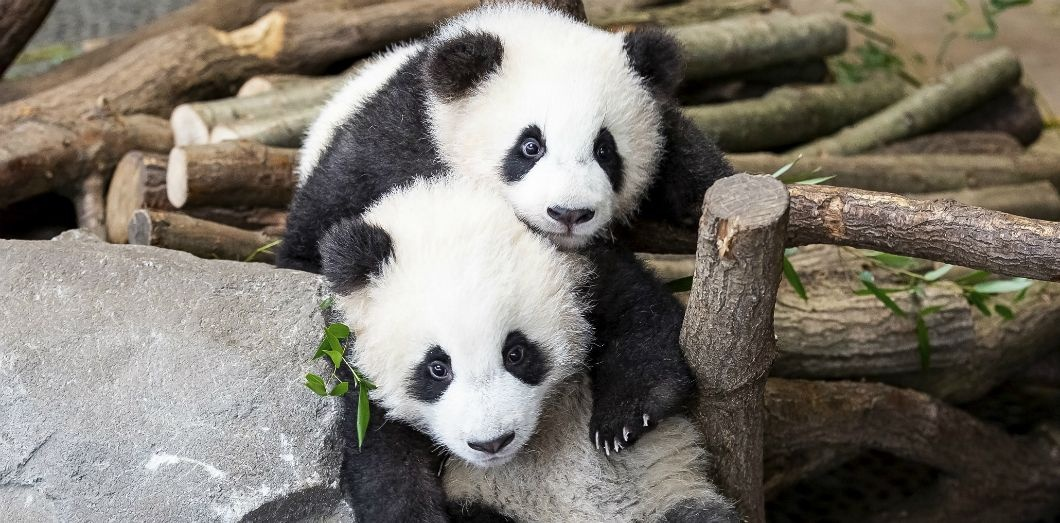
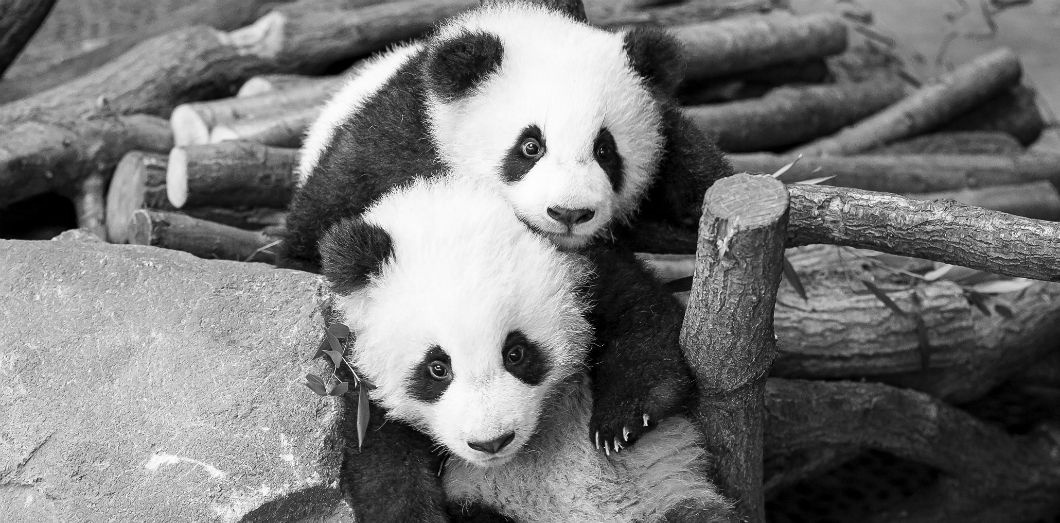
Fin de la story#07 - Pipeline ok

diff --git a/main.py b/main.py
@@ -1,13 +1,10 @@
 import sys
 import functions as f
+from logger import log
+
 
 args = sys.argv
-
-# TODO:
-
-entry_folder = ""
-output_folder = ""
-filters = ""
+filters_list = []
 run = True
 args_required = ["-i", "-o"]
 i = 0
@@ -23,40 +20,52 @@ for arg in args_required:
             print(f"L'argument {arg} est nécessaire pour connaitre le chemin des images en sortie")
             run = False
 
-if run:
-    for arg in args:
+# if run:
+for arg in args:
 
-        if arg == "--h":
-            print("usage: imagefilter")
-            print("--h,----help")
-            print("-i,--input-dir <directory>")
-            print("-o,--output-dir <directory>")
+    if arg == "--h":
+        print("usage: imagefilter")
+        print("--h,----help")
+        print("-i,--input-dir <directory>")
+        print("-o,--output-dir <directory>")
 
-        if len(args) == 1:
-            print("Add arguments please")
+    if len(args) == 1:
+        print("Add arguments please")
 
-        if arg == "-i":
-            if f.next_arg_exist(i, args):
-                entry_folder = args[i+1]
+    if arg == "-i":
+        if f.next_arg_exist(i, args):
+            entry_folder = args[i+1]
 
-        elif arg == "-o":
-            if f.next_arg_exist(i, args):
-                output_folder = args[i+1]
+    elif arg == "-o":
+        if f.next_arg_exist(i, args):
+            output_folder = args[i+1]
 
-        elif arg == "--filters":
-            if f.next_arg_exist(i, args):
-                if "grayscale" in args[i+1]:
-                    filters += "grayscale, "
-                elif "blur" in args[i+1]:
-                    filters += "blur, "
-                elif "dilate" in args[i+1]:
-                    filters += "dilate, "
-                else:
-                    filters = "filter do no exist"
-                    run = False
-            if run:
-                f.application_filter(entry_folder, output_folder, filters)
+    elif arg == "--filters":
+        if f.next_arg_exist(i, args):
+            # On récupère tous nos filtres dans un tableau
+            all_filters = args[i+1].split("|") # ['grayscale', 'blur:10', 'dilate:15']
+            for filter in all_filters:
+                # filter.split(":") = ['grayscale'] - ['blur', '10'] - ['dilate', '15']
+                if "grayscale" in filter:
+                    grayscale = filter.split(":")
+                    filters_list.append({"name": grayscale[0]})
+                if "blur" in filter:
+                    blur_split = filter.split(":")
+                    intensity = int(blur_split[1])
+                    # On vérifie que le flou soit positif ET impaire
+                    if intensity < 0 or intensity % 2 == 0:
+                        print("La valeur du flou doit etre positive ET impaire")
+                        log("Gossian Blur => Tentative echouee, la valeur du flou est incorrect")
+                        quit()
+                    else:
+                        filters_list.append({"name": blur_split[0], "intensity": intensity})
+                if "dilate" in filter:
+                    dilate_split = filter.split(":")
+                    intensity = int(dilate_split[1])
+                    filters_list.append({"name": dilate_split[0], "intensity": intensity})
+            if len(filters_list) == 0:
+                print("Enter an existing filter")
+            else:
+                f.application_filter(entry_folder, output_folder, filters_list)
 
-        i += 1
-
-    f.application_filter(entry_folder, output_folder, filters)
+    i += 1

diff --git a/functions.py b/functions.py
@@ -3,7 +3,7 @@ import os
 from logger import log
 from filters import grayscale as g, blur as b, dilate as d
 
-def application_filter(img_dest, new_dest, filters):
+def application_filter(img_dest, new_dest, filters_list):
     for img_file in os.listdir(img_dest):
 
         img_path = f"{img_dest}/{img_file}"
@@ -12,9 +12,7 @@ def application_filter(img_dest, new_dest, filters):
             # On essaie de convertir l'image
             try:
                 image = cv2.imread(img_path)
-                # =============== Filtre à appliquer =================
-                image = filter_number(image, filters)
-                # ====================================================
+                image = filter_number(image, filters_list)
                 new_img = f"{new_dest}/{img_file}"
                 # On vérifie si le dossier n'existe pas, on le cree
                 if not os.path.exists(new_dest):
@@ -24,29 +22,30 @@ def application_filter(img_dest, new_dest, filters):
             # Leve une erreur si le nom du fichier n'existe pas
             except cv2.error:
                 print("Le fichier est introuvable ou n'existe pas")
-                log("Tentative echouee, le fichier est introuvable ou n'existe pas")
+                log(f"Tentative echouee, le fichier {img_file} est introuvable ou n'existe pas")
         # Ce n'est pas une image
         else:
             print("Veuillez saisir un fichier de type image (.jpg, .png, .jpeg)")
-            log("Tentative echouee, le type du fichier est incorrect")
+            log(f"Tentative echouee, le type du fichier ({img_file}) est incorrect")
 
-def filter_number(img, filters):
+def filter_number(img, filters_list):
     new_image = img
-    if "grayscale" in filters:
-        new_image = g.grayscale(new_image)
-    if "blur" in filters:
-        new_image = b.blur(new_image, 13)
-    if "dilate" in filters:
-        new_image = d.dilate(new_image, 15)
+    for filter in filters_list:
+        if filter["name"] == "grayscale":
+            new_image = g.grayscale(new_image)
+        if filter["name"] == "blur":
+            new_image = b.blur(new_image, filter["intensity"])
+        if filter["name"] == "dilate":
+            new_image = d.dilate(new_image, filter["intensity"])
     return new_image
 
 def next_arg_exist(i, args):
     try:
         if not args[i+1]:
             print("Add arguments please")
-            return False
+            quit()
         else:
             return True
     except IndexError:
         print("Add arguments please")
-        return False
+        quit()

diff --git a/filters/blur.py b/filters/blur.py
@@ -3,12 +3,5 @@ from logger import log
 
 def blur(img, flou):
 
-    # TODO détecter dès le début si le blur a une mauvaise valeur
-    # On vérifie que le flou soit positif ET impaire
-    if flou < 0 or flou % 2 == 0:
-        print("La valeur du flou doit etre positive ET impaire")
-        log(f"Gossian Blur => Tentative echouee, la valeur du flou est incorrect")
-        return None
-    else:
-        log(f"Gossian Blur => Conversion de l'image, application d'un flou de {flou} sur l'image")
-        return cv2.GaussianBlur(img, (flou, flou), 0)
+    log(f"Gossian Blur => Conversion de l'image, application d'un flou de {flou} sur l'image")
+    return cv2.GaussianBlur(img, (flou, flou), 0)

diff --git a/filters/dilate.py b/filters/dilate.py
@@ -3,6 +3,7 @@ import numpy as np
 from logger import log
 
 def dilate(img, dilate):
+
     log(f"Dilate => Conversion de l'image, application d'une dilatation de {dilate} sur l'image")
     kernel = np.ones((5, 5), np.uint8)
     return cv2.dilate(img, kernel, iterations = dilate)

diff --git a/filters/grayscale.py b/filters/grayscale.py
@@ -2,5 +2,6 @@ import cv2
 from logger import log
 
 def grayscale(img):
+
     log("Gray Scale => Conversion de l'image en noir et blanc")
     return cv2.cvtColor(img, cv2.COLOR_BGR2GRAY)
